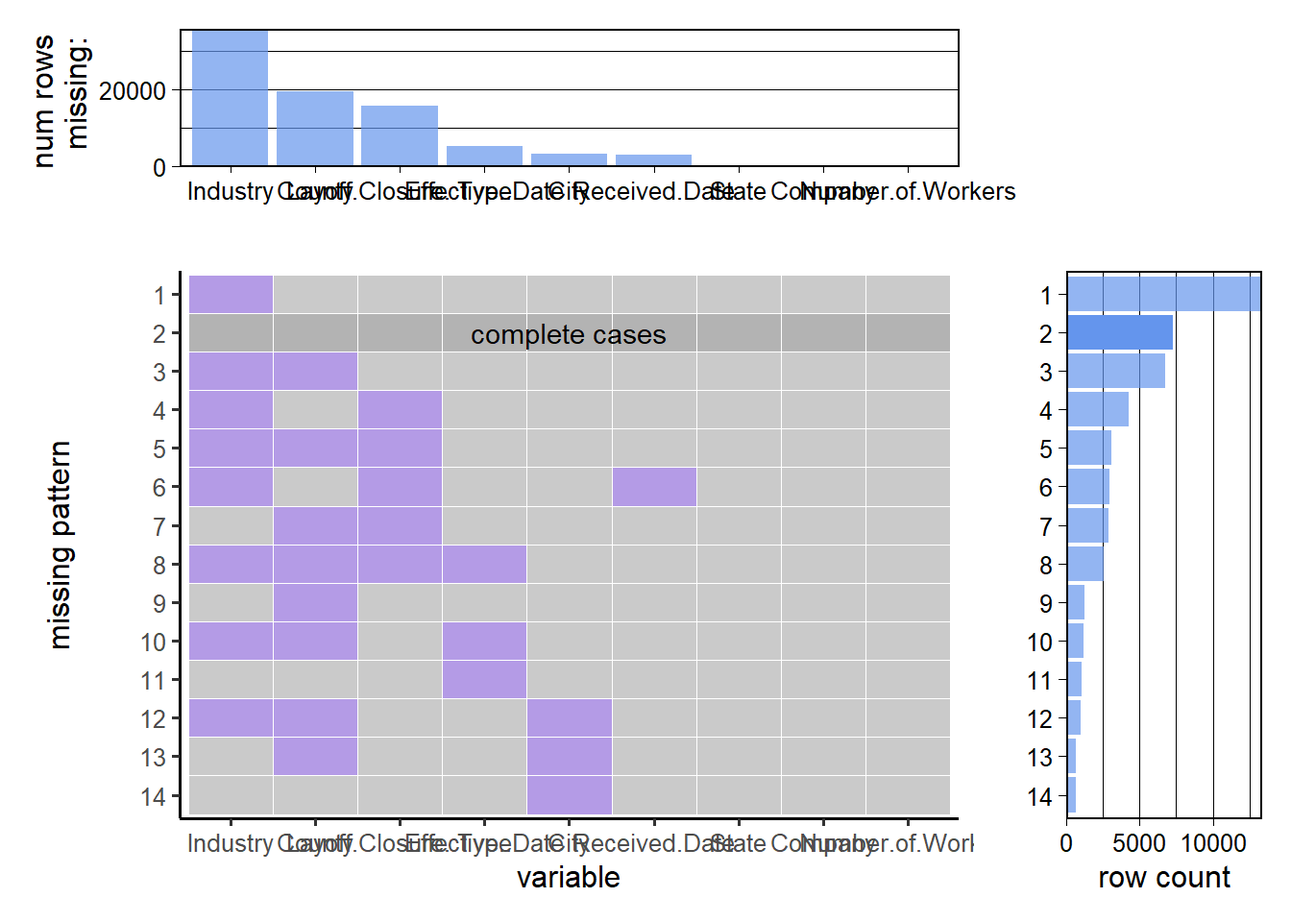
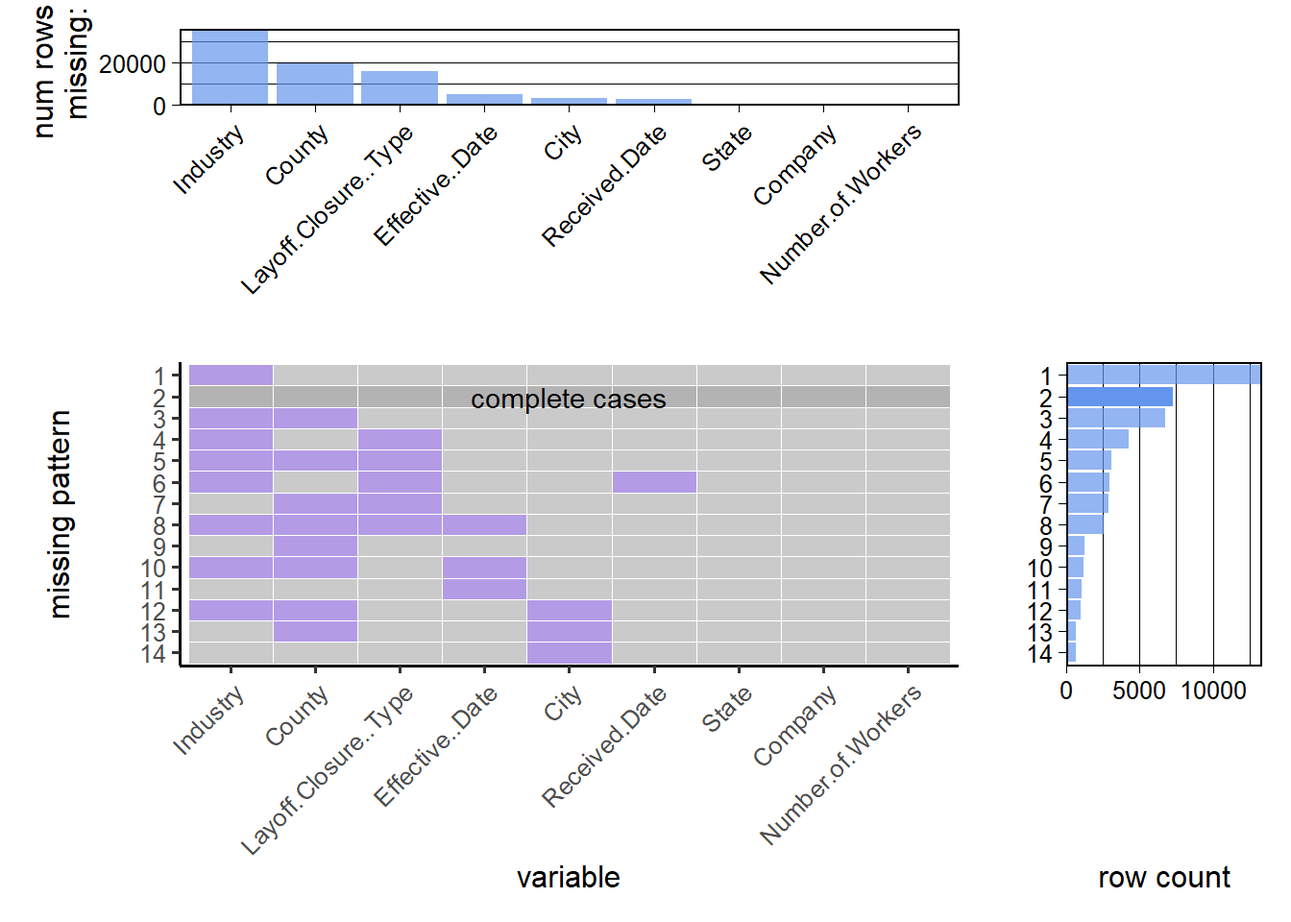
perform missing value analyis

diff --git a/docs/data.html b/docs/data.html
@@ -178,7 +178,12 @@ pre > code.sourceCode > span > a:first-child::before { text-decoration: underlin
   <ul>
   <li><a href="#technical-description" id="toc-technical-description" class="nav-link active" data-scroll-target="#technical-description"><span class="header-section-number">2.1</span> Technical Description</a></li>
   <li><a href="#research-plan" id="toc-research-plan" class="nav-link" data-scroll-target="#research-plan"><span class="header-section-number">2.2</span> Research Plan</a></li>
-  <li><a href="#missing-value-analysis" id="toc-missing-value-analysis" class="nav-link" data-scroll-target="#missing-value-analysis"><span class="header-section-number">2.3</span> Missing value analysis</a></li>
+  <li><a href="#missing-value-analysis" id="toc-missing-value-analysis" class="nav-link" data-scroll-target="#missing-value-analysis"><span class="header-section-number">2.3</span> Missing value analysis</a>
+  <ul class="collapse">
+  <li><a href="#layoff-dataset" id="toc-layoff-dataset" class="nav-link" data-scroll-target="#layoff-dataset"><span class="header-section-number">2.3.1</span> Layoff Dataset</a></li>
+  <li><a href="#unemployment-dataset" id="toc-unemployment-dataset" class="nav-link" data-scroll-target="#unemployment-dataset"><span class="header-section-number">2.3.2</span> Unemployment Dataset</a></li>
+  <li><a href="#stock-market-dataset-sp500" id="toc-stock-market-dataset-sp500" class="nav-link" data-scroll-target="#stock-market-dataset-sp500"><span class="header-section-number">2.3.3</span> Stock Market Dataset (S&amp;P500)</a></li>
+  </ul></li>
   </ul>
 <div class="toc-actions"><div><i class="bi bi-github"></i></div><div class="action-links"><p><a href="https://github.com/jagriti-hirwani/EDAV-finalproject-Fall2023/edit/main/data.qmd" class="toc-action">Edit this page</a></p><p><a href="https://github.com/jagriti-hirwani/EDAV-finalproject-Fall2023/issues/new" class="toc-action">Report an issue</a></p></div></div></nav>
     </div>
@@ -209,8 +214,8 @@ pre > code.sourceCode > span > a:first-child::before { text-decoration: underlin
 <li>Layoff Data: https://layoffdata.com/data/</li>
 </ol>
 <ul>
-<li>Collected by: WARN Database which have citations from various sources mentioned here: https://layoffdata.com/cited/</li>
-<li>Downloaded from a spreadsheet</li>
+<li>Collected by: The federal WARN Act requires large employers to give advance notice of layoffs to state governments and workers. Though states publish this information, no entity collects these layoff notices across the many states. The WARN Database standardizes WARN Notices across the country into a single dataset and the only comprehensive database of worker layoffs.</li>
+<li>Downloaded as an xlsx file from the website</li>
 <li>Format of the data: excel spreadsheet with the following features:
 <ul>
 <li>State</li>
@@ -307,6 +312,8 @@ Attaching package: 'dplyr'</code></pre>
 <span id="cb5-5"><a href="#cb5-5" aria-hidden="true" tabindex="-1"></a><span class="fu">library</span>(readxl)</span></code><button title="Copy to Clipboard" class="code-copy-button"><i class="bi"></i></button></pre></div>
 </details>
 </div>
+<section id="layoff-dataset" class="level3" data-number="2.3.1">
+<h3 data-number="2.3.1" class="anchored" data-anchor-id="layoff-dataset"><span class="header-section-number">2.3.1</span> Layoff Dataset</h3>
 <div class="cell">
 <details>
 <summary>Code</summary>
@@ -359,7 +366,14 @@ Attaching package: 'dplyr'</code></pre>
 <p><img src="data_files/figure-html/unnamed-chunk-3-1.png" class="img-fluid" width="672"></p>
 </div>
 </div>
-<p>We can make the following observations: - We have Company and State information for all records. - ‘Union’ and ‘Temporary/Permanent’ information is missing for almost all records, so we cannot include them in our analysis. - We have around 612 records with no information of the ‘Number of Workers’ laid off, so these records cannot contribute to our analysis. - Columns like ‘Notes’, and ‘Region’ have high fraction of missing values but they don’t play a major role in our analysis. - The high fraction of missing values in ‘Industry’ coulmn, however, could limit our industry wise analysis. Since the critical parts of our analysis will depend on the last 5 years, we can check the missing ratio in that time interval to check if it’s any better.</p>
+<p>We can make the following observations:</p>
+<ul>
+<li>We have Company and State information for all records.</li>
+<li>‘Union’ and ‘Temporary/Permanent’ information is missing for almost all records, so we cannot include them in our analysis.</li>
+<li>We have around 612 records with no information of the ‘Number of Workers’ laid off, so these records cannot contribute to our analysis.</li>
+<li>Columns like ‘Notes’, and ‘Region’ have high fraction of missing values but they don’t play a major role in our analysis.</li>
+<li>The high fraction of missing values in ‘Industry’ coulmn, however, could limit our industry wise analysis. Since the critical parts of our analysis will depend on the last 5 years, we can check the missing ratio in that time interval to check if it’s any better.</li>
+</ul>
 <div class="cell">
 <details>
 <summary>Code</summary>
@@ -387,7 +401,7 @@ Attaching package: 'dplyr'</code></pre>
 <span id="cb9-22"><a href="#cb9-22" aria-hidden="true" tabindex="-1"></a>        <span class="at">hjust =</span> <span class="dv">0</span>, <span class="at">vjust =</span> <span class="dv">0</span>, <span class="at">color =</span> <span class="st">"black"</span></span>
 <span id="cb9-23"><a href="#cb9-23" aria-hidden="true" tabindex="-1"></a>    ) <span class="sc">+</span></span>
 <span id="cb9-24"><a href="#cb9-24" aria-hidden="true" tabindex="-1"></a>    <span class="fu">labs</span>(</span>
-<span id="cb9-25"><a href="#cb9-25" aria-hidden="true" tabindex="-1"></a>        <span class="at">title =</span> <span class="st">"Number of Missing Values in Each Column"</span>,</span>
+<span id="cb9-25"><a href="#cb9-25" aria-hidden="true" tabindex="-1"></a>        <span class="at">title =</span> <span class="st">"Number of Missing Values in Each Column (2018-2023)"</span>,</span>
 <span id="cb9-26"><a href="#cb9-26" aria-hidden="true" tabindex="-1"></a>        <span class="at">x =</span> <span class="st">"Column"</span>,</span>
 <span id="cb9-27"><a href="#cb9-27" aria-hidden="true" tabindex="-1"></a>        <span class="at">y =</span> <span class="st">"Number of Missing Values"</span></span>
 <span id="cb9-28"><a href="#cb9-28" aria-hidden="true" tabindex="-1"></a>    ) <span class="sc">+</span></span>
@@ -424,6 +438,7 @@ Attaching package: 'dplyr'</code></pre>
 </div>
 </div>
 <p>Now, to identify patterns in missing values, we added a new feature to the redav package to address the chalenges of large datasets. We added the parameter ‘threshold’. This controls the percentage of records covered by patterns to be displayed in the graph. For example, if we want to just display patterns which cover 90% of our data, we can pass a value of 0.9.</p>
+<p>Additionally, we also inclined the x-labels.</p>
 <div class="cell">
 <details>
 <summary>Code</summary>
@@ -474,69 +489,71 @@ Attaching package: 'dplyr'</code></pre>
 <span id="cb12-45"><a href="#cb12-45" aria-hidden="true" tabindex="-1"></a>        ggplot2<span class="sc">::</span><span class="fu">scale_alpha_manual</span>(<span class="at">values =</span> <span class="fu">c</span>(.<span class="dv">7</span>, <span class="dv">1</span>)) <span class="sc">+</span></span>
 <span id="cb12-46"><a href="#cb12-46" aria-hidden="true" tabindex="-1"></a>        ggplot2<span class="sc">::</span><span class="fu">ylab</span>(<span class="st">"missing pattern"</span>) <span class="sc">+</span></span>
 <span id="cb12-47"><a href="#cb12-47" aria-hidden="true" tabindex="-1"></a>        ggplot2<span class="sc">::</span><span class="fu">guides</span>(<span class="at">fill =</span> <span class="st">"none"</span>, <span class="at">alpha =</span> <span class="st">"none"</span>) <span class="sc">+</span></span>
-<span id="cb12-48"><a href="#cb12-48" aria-hidden="true" tabindex="-1"></a>        ggplot2<span class="sc">::</span><span class="fu">theme_classic</span>(<span class="dv">12</span>)</span>
-<span id="cb12-49"><a href="#cb12-49" aria-hidden="true" tabindex="-1"></a></span>
-<span id="cb12-50"><a href="#cb12-50" aria-hidden="true" tabindex="-1"></a>    <span class="co"># check for "none missing" pattern</span></span>
-<span id="cb12-51"><a href="#cb12-51" aria-hidden="true" tabindex="-1"></a>    none_missing_pattern <span class="ot">&lt;-</span> na_count_by_pattern <span class="sc">%&gt;%</span></span>
-<span id="cb12-52"><a href="#cb12-52" aria-hidden="true" tabindex="-1"></a>        dplyr<span class="sc">::</span><span class="fu">filter</span>(.data<span class="sc">$</span>none_missing) <span class="sc">%&gt;%</span></span>
-<span id="cb12-53"><a href="#cb12-53" aria-hidden="true" tabindex="-1"></a>        dplyr<span class="sc">::</span><span class="fu">pull</span>(.data<span class="sc">$</span>pattern)</span>
-<span id="cb12-54"><a href="#cb12-54" aria-hidden="true" tabindex="-1"></a></span>
-<span id="cb12-55"><a href="#cb12-55" aria-hidden="true" tabindex="-1"></a>    <span class="cf">if</span> (<span class="fu">length</span>(none_missing_pattern) <span class="sc">&gt;</span> <span class="dv">0</span>) {</span>
-<span id="cb12-56"><a href="#cb12-56" aria-hidden="true" tabindex="-1"></a>        main_plot <span class="ot">&lt;-</span> main_plot <span class="sc">+</span></span>
-<span id="cb12-57"><a href="#cb12-57" aria-hidden="true" tabindex="-1"></a>            ggplot2<span class="sc">::</span><span class="fu">annotate</span>(<span class="st">"text"</span>,</span>
-<span id="cb12-58"><a href="#cb12-58" aria-hidden="true" tabindex="-1"></a>                <span class="at">x =</span> (<span class="fu">ncol</span>(na_count_all) <span class="sc">-</span> <span class="dv">2</span>) <span class="sc">/</span> <span class="dv">2</span>,</span>
-<span id="cb12-59"><a href="#cb12-59" aria-hidden="true" tabindex="-1"></a>                <span class="at">y =</span> <span class="fu">nrow</span>(na_count_all) <span class="sc">+</span> <span class="dv">1</span> <span class="sc">-</span> <span class="fu">as.numeric</span>(<span class="fu">as.character</span>(none_missing_pattern)),</span>
-<span id="cb12-60"><a href="#cb12-60" aria-hidden="true" tabindex="-1"></a>                <span class="at">label =</span> <span class="st">"complete cases"</span></span>
-<span id="cb12-61"><a href="#cb12-61" aria-hidden="true" tabindex="-1"></a>            )</span>
-<span id="cb12-62"><a href="#cb12-62" aria-hidden="true" tabindex="-1"></a>    }</span>
-<span id="cb12-63"><a href="#cb12-63" aria-hidden="true" tabindex="-1"></a></span>
-<span id="cb12-64"><a href="#cb12-64" aria-hidden="true" tabindex="-1"></a>    <span class="co"># margin plots</span></span>
-<span id="cb12-65"><a href="#cb12-65" aria-hidden="true" tabindex="-1"></a></span>
-<span id="cb12-66"><a href="#cb12-66" aria-hidden="true" tabindex="-1"></a>    denom <span class="ot">&lt;-</span> <span class="fu">ifelse</span>(percent, <span class="fu">nrow</span>(x) <span class="sc">/</span> <span class="dv">100</span>, <span class="dv">1</span>)</span>
-<span id="cb12-67"><a href="#cb12-67" aria-hidden="true" tabindex="-1"></a></span>
-<span id="cb12-68"><a href="#cb12-68" aria-hidden="true" tabindex="-1"></a>    missing_by_column_plot <span class="ot">&lt;-</span> ggplot2<span class="sc">::</span><span class="fu">ggplot</span>(na_count_by_column, ggplot2<span class="sc">::</span><span class="fu">aes</span>(forcats<span class="sc">::</span><span class="fu">fct_inorder</span>(.data<span class="sc">$</span>var), .data<span class="sc">$</span>count <span class="sc">/</span> denom)) <span class="sc">+</span></span>
-<span id="cb12-69"><a href="#cb12-69" aria-hidden="true" tabindex="-1"></a>        ggplot2<span class="sc">::</span><span class="fu">geom_col</span>(<span class="at">fill =</span> <span class="st">"cornflowerblue"</span>, <span class="at">alpha =</span> .<span class="dv">7</span>) <span class="sc">+</span></span>
-<span id="cb12-70"><a href="#cb12-70" aria-hidden="true" tabindex="-1"></a>        ggplot2<span class="sc">::</span><span class="fu">scale_y_continuous</span>(<span class="at">expand =</span> <span class="fu">c</span>(<span class="dv">0</span>, <span class="dv">0</span>), <span class="at">n.breaks =</span> <span class="dv">3</span>) <span class="sc">+</span></span>
-<span id="cb12-71"><a href="#cb12-71" aria-hidden="true" tabindex="-1"></a>        ggplot2<span class="sc">::</span><span class="fu">xlab</span>(<span class="st">""</span>) <span class="sc">+</span></span>
-<span id="cb12-72"><a href="#cb12-72" aria-hidden="true" tabindex="-1"></a>        ggplot2<span class="sc">::</span><span class="fu">ylab</span>(<span class="fu">ifelse</span>(percent, <span class="st">"% rows </span><span class="sc">\n</span><span class="st"> missing:"</span>, <span class="st">"num rows </span><span class="sc">\n</span><span class="st"> missing:"</span>)) <span class="sc">+</span></span>
-<span id="cb12-73"><a href="#cb12-73" aria-hidden="true" tabindex="-1"></a>        ggplot2<span class="sc">::</span><span class="fu">theme_linedraw</span>(<span class="dv">12</span>) <span class="sc">+</span></span>
-<span id="cb12-74"><a href="#cb12-74" aria-hidden="true" tabindex="-1"></a>        ggplot2<span class="sc">::</span><span class="fu">theme</span>(</span>
-<span id="cb12-75"><a href="#cb12-75" aria-hidden="true" tabindex="-1"></a>            <span class="at">panel.grid.major.x =</span> ggplot2<span class="sc">::</span><span class="fu">element_blank</span>(),</span>
-<span id="cb12-76"><a href="#cb12-76" aria-hidden="true" tabindex="-1"></a>            <span class="at">panel.grid.minor.x =</span> ggplot2<span class="sc">::</span><span class="fu">element_blank</span>()</span>
-<span id="cb12-77"><a href="#cb12-77" aria-hidden="true" tabindex="-1"></a>        )</span>
-<span id="cb12-78"><a href="#cb12-78" aria-hidden="true" tabindex="-1"></a></span>
-<span id="cb12-79"><a href="#cb12-79" aria-hidden="true" tabindex="-1"></a>    missing_by_pattern_plot <span class="ot">&lt;-</span></span>
-<span id="cb12-80"><a href="#cb12-80" aria-hidden="true" tabindex="-1"></a>        ggplot2<span class="sc">::</span><span class="fu">ggplot</span>(na_count_by_pattern, ggplot2<span class="sc">::</span><span class="fu">aes</span>(.data<span class="sc">$</span>pattern, .data<span class="sc">$</span>count <span class="sc">/</span> denom, <span class="at">alpha =</span> .data<span class="sc">$</span>none_missing)) <span class="sc">+</span></span>
-<span id="cb12-81"><a href="#cb12-81" aria-hidden="true" tabindex="-1"></a>        ggplot2<span class="sc">::</span><span class="fu">geom_col</span>(<span class="at">fill =</span> <span class="st">"cornflowerblue"</span>) <span class="sc">+</span></span>
-<span id="cb12-82"><a href="#cb12-82" aria-hidden="true" tabindex="-1"></a>        ggplot2<span class="sc">::</span><span class="fu">coord_flip</span>() <span class="sc">+</span></span>
-<span id="cb12-83"><a href="#cb12-83" aria-hidden="true" tabindex="-1"></a>        ggplot2<span class="sc">::</span><span class="fu">scale_y_continuous</span>(<span class="at">expand =</span> <span class="fu">c</span>(<span class="dv">0</span>, <span class="dv">0</span>), <span class="at">n.breaks =</span> <span class="dv">3</span>) <span class="sc">+</span></span>
-<span id="cb12-84"><a href="#cb12-84" aria-hidden="true" tabindex="-1"></a>        ggplot2<span class="sc">::</span><span class="fu">scale_alpha_manual</span>(<span class="at">values =</span> <span class="fu">c</span>(.<span class="dv">7</span>, <span class="dv">1</span>)) <span class="sc">+</span></span>
-<span id="cb12-85"><a href="#cb12-85" aria-hidden="true" tabindex="-1"></a>        ggplot2<span class="sc">::</span><span class="fu">xlab</span>(<span class="st">""</span>) <span class="sc">+</span></span>
-<span id="cb12-86"><a href="#cb12-86" aria-hidden="true" tabindex="-1"></a>        ggplot2<span class="sc">::</span><span class="fu">ylab</span>(<span class="fu">ifelse</span>(percent, <span class="st">"% rows"</span>, <span class="st">"row count"</span>)) <span class="sc">+</span></span>
-<span id="cb12-87"><a href="#cb12-87" aria-hidden="true" tabindex="-1"></a>        ggplot2<span class="sc">::</span><span class="fu">guides</span>(<span class="at">alpha =</span> <span class="st">"none"</span>) <span class="sc">+</span></span>
-<span id="cb12-88"><a href="#cb12-88" aria-hidden="true" tabindex="-1"></a>        ggplot2<span class="sc">::</span><span class="fu">theme_linedraw</span>(<span class="dv">12</span>) <span class="sc">+</span></span>
-<span id="cb12-89"><a href="#cb12-89" aria-hidden="true" tabindex="-1"></a>        ggplot2<span class="sc">::</span><span class="fu">theme</span>(</span>
-<span id="cb12-90"><a href="#cb12-90" aria-hidden="true" tabindex="-1"></a>            <span class="at">panel.grid.major.y =</span> ggplot2<span class="sc">::</span><span class="fu">element_blank</span>(),</span>
-<span id="cb12-91"><a href="#cb12-91" aria-hidden="true" tabindex="-1"></a>            <span class="at">panel.grid.minor.y =</span> ggplot2<span class="sc">::</span><span class="fu">element_blank</span>()</span>
-<span id="cb12-92"><a href="#cb12-92" aria-hidden="true" tabindex="-1"></a>        )</span>
-<span id="cb12-93"><a href="#cb12-93" aria-hidden="true" tabindex="-1"></a></span>
-<span id="cb12-94"><a href="#cb12-94" aria-hidden="true" tabindex="-1"></a>    <span class="cf">if</span> (percent) {</span>
-<span id="cb12-95"><a href="#cb12-95" aria-hidden="true" tabindex="-1"></a>        missing_by_column_plot <span class="ot">&lt;-</span> missing_by_column_plot <span class="sc">+</span></span>
-<span id="cb12-96"><a href="#cb12-96" aria-hidden="true" tabindex="-1"></a>            ggplot2<span class="sc">::</span><span class="fu">scale_y_continuous</span>(</span>
-<span id="cb12-97"><a href="#cb12-97" aria-hidden="true" tabindex="-1"></a>                <span class="at">expand =</span> <span class="fu">c</span>(<span class="dv">0</span>, <span class="dv">0</span>), <span class="at">n.breaks =</span> <span class="dv">5</span>,</span>
-<span id="cb12-98"><a href="#cb12-98" aria-hidden="true" tabindex="-1"></a>                <span class="at">limits =</span> <span class="fu">c</span>(<span class="dv">0</span>, <span class="dv">100</span>)</span>
-<span id="cb12-99"><a href="#cb12-99" aria-hidden="true" tabindex="-1"></a>            )</span>
-<span id="cb12-100"><a href="#cb12-100" aria-hidden="true" tabindex="-1"></a>        missing_by_pattern_plot <span class="ot">&lt;-</span> missing_by_pattern_plot <span class="sc">+</span></span>
-<span id="cb12-101"><a href="#cb12-101" aria-hidden="true" tabindex="-1"></a>            ggplot2<span class="sc">::</span><span class="fu">scale_y_continuous</span>(</span>
-<span id="cb12-102"><a href="#cb12-102" aria-hidden="true" tabindex="-1"></a>                <span class="at">expand =</span> <span class="fu">c</span>(<span class="dv">0</span>, <span class="dv">0</span>), <span class="at">n.breaks =</span> <span class="dv">5</span>,</span>
-<span id="cb12-103"><a href="#cb12-103" aria-hidden="true" tabindex="-1"></a>                <span class="at">limits =</span> <span class="fu">c</span>(<span class="dv">0</span>, <span class="dv">100</span>)</span>
-<span id="cb12-104"><a href="#cb12-104" aria-hidden="true" tabindex="-1"></a>            )</span>
-<span id="cb12-105"><a href="#cb12-105" aria-hidden="true" tabindex="-1"></a>    }</span>
-<span id="cb12-106"><a href="#cb12-106" aria-hidden="true" tabindex="-1"></a></span>
-<span id="cb12-107"><a href="#cb12-107" aria-hidden="true" tabindex="-1"></a>    missing_by_column_plot <span class="sc">+</span> patchwork<span class="sc">::</span><span class="fu">plot_spacer</span>() <span class="sc">+</span></span>
-<span id="cb12-108"><a href="#cb12-108" aria-hidden="true" tabindex="-1"></a>        main_plot <span class="sc">+</span> missing_by_pattern_plot <span class="sc">+</span></span>
-<span id="cb12-109"><a href="#cb12-109" aria-hidden="true" tabindex="-1"></a>        patchwork<span class="sc">::</span><span class="fu">plot_layout</span>(<span class="at">widths =</span> <span class="fu">c</span>(<span class="dv">4</span>, <span class="dv">1</span>), <span class="at">heights =</span> <span class="fu">c</span>(<span class="dv">1</span>, <span class="dv">4</span>))</span>
-<span id="cb12-110"><a href="#cb12-110" aria-hidden="true" tabindex="-1"></a>}</span></code><button title="Copy to Clipboard" class="code-copy-button"><i class="bi"></i></button></pre></div>
+<span id="cb12-48"><a href="#cb12-48" aria-hidden="true" tabindex="-1"></a>        ggplot2<span class="sc">::</span><span class="fu">theme_classic</span>(<span class="dv">12</span>) <span class="sc">+</span></span>
+<span id="cb12-49"><a href="#cb12-49" aria-hidden="true" tabindex="-1"></a>        <span class="fu">theme</span>(<span class="at">axis.text.x =</span> <span class="fu">element_text</span>(<span class="at">angle =</span> <span class="dv">45</span>, <span class="at">hjust =</span> <span class="dv">1</span>)) <span class="co">#NEWLY ADDED</span></span>
+<span id="cb12-50"><a href="#cb12-50" aria-hidden="true" tabindex="-1"></a></span>
+<span id="cb12-51"><a href="#cb12-51" aria-hidden="true" tabindex="-1"></a>    <span class="co"># check for "none missing" pattern</span></span>
+<span id="cb12-52"><a href="#cb12-52" aria-hidden="true" tabindex="-1"></a>    none_missing_pattern <span class="ot">&lt;-</span> na_count_by_pattern <span class="sc">%&gt;%</span></span>
+<span id="cb12-53"><a href="#cb12-53" aria-hidden="true" tabindex="-1"></a>        dplyr<span class="sc">::</span><span class="fu">filter</span>(.data<span class="sc">$</span>none_missing) <span class="sc">%&gt;%</span></span>
+<span id="cb12-54"><a href="#cb12-54" aria-hidden="true" tabindex="-1"></a>        dplyr<span class="sc">::</span><span class="fu">pull</span>(.data<span class="sc">$</span>pattern)</span>
+<span id="cb12-55"><a href="#cb12-55" aria-hidden="true" tabindex="-1"></a></span>
+<span id="cb12-56"><a href="#cb12-56" aria-hidden="true" tabindex="-1"></a>    <span class="cf">if</span> (<span class="fu">length</span>(none_missing_pattern) <span class="sc">&gt;</span> <span class="dv">0</span>) {</span>
+<span id="cb12-57"><a href="#cb12-57" aria-hidden="true" tabindex="-1"></a>        main_plot <span class="ot">&lt;-</span> main_plot <span class="sc">+</span></span>
+<span id="cb12-58"><a href="#cb12-58" aria-hidden="true" tabindex="-1"></a>            ggplot2<span class="sc">::</span><span class="fu">annotate</span>(<span class="st">"text"</span>,</span>
+<span id="cb12-59"><a href="#cb12-59" aria-hidden="true" tabindex="-1"></a>                <span class="at">x =</span> (<span class="fu">ncol</span>(na_count_all) <span class="sc">-</span> <span class="dv">2</span>) <span class="sc">/</span> <span class="dv">2</span>,</span>
+<span id="cb12-60"><a href="#cb12-60" aria-hidden="true" tabindex="-1"></a>                <span class="at">y =</span> <span class="fu">nrow</span>(na_count_all) <span class="sc">+</span> <span class="dv">1</span> <span class="sc">-</span> <span class="fu">as.numeric</span>(<span class="fu">as.character</span>(none_missing_pattern)),</span>
+<span id="cb12-61"><a href="#cb12-61" aria-hidden="true" tabindex="-1"></a>                <span class="at">label =</span> <span class="st">"complete cases"</span></span>
+<span id="cb12-62"><a href="#cb12-62" aria-hidden="true" tabindex="-1"></a>            )</span>
+<span id="cb12-63"><a href="#cb12-63" aria-hidden="true" tabindex="-1"></a>    }</span>
+<span id="cb12-64"><a href="#cb12-64" aria-hidden="true" tabindex="-1"></a></span>
+<span id="cb12-65"><a href="#cb12-65" aria-hidden="true" tabindex="-1"></a>    <span class="co"># margin plots</span></span>
+<span id="cb12-66"><a href="#cb12-66" aria-hidden="true" tabindex="-1"></a></span>
+<span id="cb12-67"><a href="#cb12-67" aria-hidden="true" tabindex="-1"></a>    denom <span class="ot">&lt;-</span> <span class="fu">ifelse</span>(percent, <span class="fu">nrow</span>(x) <span class="sc">/</span> <span class="dv">100</span>, <span class="dv">1</span>)</span>
+<span id="cb12-68"><a href="#cb12-68" aria-hidden="true" tabindex="-1"></a></span>
+<span id="cb12-69"><a href="#cb12-69" aria-hidden="true" tabindex="-1"></a>    missing_by_column_plot <span class="ot">&lt;-</span> ggplot2<span class="sc">::</span><span class="fu">ggplot</span>(na_count_by_column, ggplot2<span class="sc">::</span><span class="fu">aes</span>(forcats<span class="sc">::</span><span class="fu">fct_inorder</span>(.data<span class="sc">$</span>var), .data<span class="sc">$</span>count <span class="sc">/</span> denom)) <span class="sc">+</span></span>
+<span id="cb12-70"><a href="#cb12-70" aria-hidden="true" tabindex="-1"></a>        ggplot2<span class="sc">::</span><span class="fu">geom_col</span>(<span class="at">fill =</span> <span class="st">"cornflowerblue"</span>, <span class="at">alpha =</span> .<span class="dv">7</span>) <span class="sc">+</span></span>
+<span id="cb12-71"><a href="#cb12-71" aria-hidden="true" tabindex="-1"></a>        ggplot2<span class="sc">::</span><span class="fu">scale_y_continuous</span>(<span class="at">expand =</span> <span class="fu">c</span>(<span class="dv">0</span>, <span class="dv">0</span>), <span class="at">n.breaks =</span> <span class="dv">3</span>) <span class="sc">+</span></span>
+<span id="cb12-72"><a href="#cb12-72" aria-hidden="true" tabindex="-1"></a>        ggplot2<span class="sc">::</span><span class="fu">xlab</span>(<span class="st">""</span>) <span class="sc">+</span></span>
+<span id="cb12-73"><a href="#cb12-73" aria-hidden="true" tabindex="-1"></a>        ggplot2<span class="sc">::</span><span class="fu">ylab</span>(<span class="fu">ifelse</span>(percent, <span class="st">"% rows </span><span class="sc">\n</span><span class="st"> missing:"</span>, <span class="st">"num rows </span><span class="sc">\n</span><span class="st"> missing:"</span>)) <span class="sc">+</span></span>
+<span id="cb12-74"><a href="#cb12-74" aria-hidden="true" tabindex="-1"></a>        ggplot2<span class="sc">::</span><span class="fu">theme_linedraw</span>(<span class="dv">12</span>) <span class="sc">+</span></span>
+<span id="cb12-75"><a href="#cb12-75" aria-hidden="true" tabindex="-1"></a>        ggplot2<span class="sc">::</span><span class="fu">theme</span>(</span>
+<span id="cb12-76"><a href="#cb12-76" aria-hidden="true" tabindex="-1"></a>            <span class="at">panel.grid.major.x =</span> ggplot2<span class="sc">::</span><span class="fu">element_blank</span>(),</span>
+<span id="cb12-77"><a href="#cb12-77" aria-hidden="true" tabindex="-1"></a>            <span class="at">panel.grid.minor.x =</span> ggplot2<span class="sc">::</span><span class="fu">element_blank</span>()</span>
+<span id="cb12-78"><a href="#cb12-78" aria-hidden="true" tabindex="-1"></a>        ) <span class="sc">+</span></span>
+<span id="cb12-79"><a href="#cb12-79" aria-hidden="true" tabindex="-1"></a>        <span class="fu">theme</span>(<span class="at">axis.text.x =</span> <span class="fu">element_text</span>(<span class="at">angle =</span> <span class="dv">45</span>, <span class="at">hjust =</span> <span class="dv">1</span>)) <span class="co"># NEWLY ADDED</span></span>
+<span id="cb12-80"><a href="#cb12-80" aria-hidden="true" tabindex="-1"></a></span>
+<span id="cb12-81"><a href="#cb12-81" aria-hidden="true" tabindex="-1"></a>    missing_by_pattern_plot <span class="ot">&lt;-</span></span>
+<span id="cb12-82"><a href="#cb12-82" aria-hidden="true" tabindex="-1"></a>        ggplot2<span class="sc">::</span><span class="fu">ggplot</span>(na_count_by_pattern, ggplot2<span class="sc">::</span><span class="fu">aes</span>(.data<span class="sc">$</span>pattern, .data<span class="sc">$</span>count <span class="sc">/</span> denom, <span class="at">alpha =</span> .data<span class="sc">$</span>none_missing)) <span class="sc">+</span></span>
+<span id="cb12-83"><a href="#cb12-83" aria-hidden="true" tabindex="-1"></a>        ggplot2<span class="sc">::</span><span class="fu">geom_col</span>(<span class="at">fill =</span> <span class="st">"cornflowerblue"</span>) <span class="sc">+</span></span>
+<span id="cb12-84"><a href="#cb12-84" aria-hidden="true" tabindex="-1"></a>        ggplot2<span class="sc">::</span><span class="fu">coord_flip</span>() <span class="sc">+</span></span>
+<span id="cb12-85"><a href="#cb12-85" aria-hidden="true" tabindex="-1"></a>        ggplot2<span class="sc">::</span><span class="fu">scale_y_continuous</span>(<span class="at">expand =</span> <span class="fu">c</span>(<span class="dv">0</span>, <span class="dv">0</span>), <span class="at">n.breaks =</span> <span class="dv">3</span>) <span class="sc">+</span></span>
+<span id="cb12-86"><a href="#cb12-86" aria-hidden="true" tabindex="-1"></a>        ggplot2<span class="sc">::</span><span class="fu">scale_alpha_manual</span>(<span class="at">values =</span> <span class="fu">c</span>(.<span class="dv">7</span>, <span class="dv">1</span>)) <span class="sc">+</span></span>
+<span id="cb12-87"><a href="#cb12-87" aria-hidden="true" tabindex="-1"></a>        ggplot2<span class="sc">::</span><span class="fu">xlab</span>(<span class="st">""</span>) <span class="sc">+</span></span>
+<span id="cb12-88"><a href="#cb12-88" aria-hidden="true" tabindex="-1"></a>        ggplot2<span class="sc">::</span><span class="fu">ylab</span>(<span class="fu">ifelse</span>(percent, <span class="st">"% rows"</span>, <span class="st">"row count"</span>)) <span class="sc">+</span></span>
+<span id="cb12-89"><a href="#cb12-89" aria-hidden="true" tabindex="-1"></a>        ggplot2<span class="sc">::</span><span class="fu">guides</span>(<span class="at">alpha =</span> <span class="st">"none"</span>) <span class="sc">+</span></span>
+<span id="cb12-90"><a href="#cb12-90" aria-hidden="true" tabindex="-1"></a>        ggplot2<span class="sc">::</span><span class="fu">theme_linedraw</span>(<span class="dv">12</span>) <span class="sc">+</span></span>
+<span id="cb12-91"><a href="#cb12-91" aria-hidden="true" tabindex="-1"></a>        ggplot2<span class="sc">::</span><span class="fu">theme</span>(</span>
+<span id="cb12-92"><a href="#cb12-92" aria-hidden="true" tabindex="-1"></a>            <span class="at">panel.grid.major.y =</span> ggplot2<span class="sc">::</span><span class="fu">element_blank</span>(),</span>
+<span id="cb12-93"><a href="#cb12-93" aria-hidden="true" tabindex="-1"></a>            <span class="at">panel.grid.minor.y =</span> ggplot2<span class="sc">::</span><span class="fu">element_blank</span>()</span>
+<span id="cb12-94"><a href="#cb12-94" aria-hidden="true" tabindex="-1"></a>        )</span>
+<span id="cb12-95"><a href="#cb12-95" aria-hidden="true" tabindex="-1"></a></span>
+<span id="cb12-96"><a href="#cb12-96" aria-hidden="true" tabindex="-1"></a>    <span class="cf">if</span> (percent) {</span>
+<span id="cb12-97"><a href="#cb12-97" aria-hidden="true" tabindex="-1"></a>        missing_by_column_plot <span class="ot">&lt;-</span> missing_by_column_plot <span class="sc">+</span></span>
+<span id="cb12-98"><a href="#cb12-98" aria-hidden="true" tabindex="-1"></a>            ggplot2<span class="sc">::</span><span class="fu">scale_y_continuous</span>(</span>
+<span id="cb12-99"><a href="#cb12-99" aria-hidden="true" tabindex="-1"></a>                <span class="at">expand =</span> <span class="fu">c</span>(<span class="dv">0</span>, <span class="dv">0</span>), <span class="at">n.breaks =</span> <span class="dv">5</span>,</span>
+<span id="cb12-100"><a href="#cb12-100" aria-hidden="true" tabindex="-1"></a>                <span class="at">limits =</span> <span class="fu">c</span>(<span class="dv">0</span>, <span class="dv">100</span>)</span>
+<span id="cb12-101"><a href="#cb12-101" aria-hidden="true" tabindex="-1"></a>            )</span>
+<span id="cb12-102"><a href="#cb12-102" aria-hidden="true" tabindex="-1"></a>        missing_by_pattern_plot <span class="ot">&lt;-</span> missing_by_pattern_plot <span class="sc">+</span></span>
+<span id="cb12-103"><a href="#cb12-103" aria-hidden="true" tabindex="-1"></a>            ggplot2<span class="sc">::</span><span class="fu">scale_y_continuous</span>(</span>
+<span id="cb12-104"><a href="#cb12-104" aria-hidden="true" tabindex="-1"></a>                <span class="at">expand =</span> <span class="fu">c</span>(<span class="dv">0</span>, <span class="dv">0</span>), <span class="at">n.breaks =</span> <span class="dv">5</span>,</span>
+<span id="cb12-105"><a href="#cb12-105" aria-hidden="true" tabindex="-1"></a>                <span class="at">limits =</span> <span class="fu">c</span>(<span class="dv">0</span>, <span class="dv">100</span>)</span>
+<span id="cb12-106"><a href="#cb12-106" aria-hidden="true" tabindex="-1"></a>            )</span>
+<span id="cb12-107"><a href="#cb12-107" aria-hidden="true" tabindex="-1"></a>    }</span>
+<span id="cb12-108"><a href="#cb12-108" aria-hidden="true" tabindex="-1"></a></span>
+<span id="cb12-109"><a href="#cb12-109" aria-hidden="true" tabindex="-1"></a>    missing_by_column_plot <span class="sc">+</span> patchwork<span class="sc">::</span><span class="fu">plot_spacer</span>() <span class="sc">+</span></span>
+<span id="cb12-110"><a href="#cb12-110" aria-hidden="true" tabindex="-1"></a>        main_plot <span class="sc">+</span> missing_by_pattern_plot <span class="sc">+</span></span>
+<span id="cb12-111"><a href="#cb12-111" aria-hidden="true" tabindex="-1"></a>        patchwork<span class="sc">::</span><span class="fu">plot_layout</span>(<span class="at">widths =</span> <span class="fu">c</span>(<span class="dv">4</span>, <span class="dv">1</span>), <span class="at">heights =</span> <span class="fu">c</span>(<span class="dv">1</span>, <span class="dv">4</span>))</span>
+<span id="cb12-112"><a href="#cb12-112" aria-hidden="true" tabindex="-1"></a>}</span></code><button title="Copy to Clipboard" class="code-copy-button"><i class="bi"></i></button></pre></div>
 </details>
 </div>
 <div class="cell">
@@ -553,8 +570,113 @@ Attaching package: 'dplyr'</code></pre>
 <li>As expected, ‘Industry’ column accounts for most missing values but in most cases it is the only column absent.</li>
 <li>‘Complete Cases’ form the second most observed pattern which is a good sign.</li>
 </ul>
+</section>
+<section id="unemployment-dataset" class="level3" data-number="2.3.2">
+<h3 data-number="2.3.2" class="anchored" data-anchor-id="unemployment-dataset"><span class="header-section-number">2.3.2</span> Unemployment Dataset</h3>
+<div class="cell">
+<details>
+<summary>Code</summary>
+<div class="sourceCode cell-code" id="cb14"><pre class="sourceCode r code-with-copy"><code class="sourceCode r"><span id="cb14-1"><a href="#cb14-1" aria-hidden="true" tabindex="-1"></a>data <span class="ot">&lt;-</span> <span class="fu">read_excel</span>(<span class="st">"./data/UNRATE.xls"</span>, <span class="at">skip=</span><span class="dv">10</span>)</span>
+<span id="cb14-2"><a href="#cb14-2" aria-hidden="true" tabindex="-1"></a></span>
+<span id="cb14-3"><a href="#cb14-3" aria-hidden="true" tabindex="-1"></a><span class="fu">head</span>(data, <span class="dv">5</span>)</span></code><button title="Copy to Clipboard" class="code-copy-button"><i class="bi"></i></button></pre></div>
+</details>
+<div class="cell-output cell-output-stdout">
+<pre><code># A tibble: 5 × 2
+  observation_date    UNRATE
+  &lt;dttm&gt;               &lt;dbl&gt;
+1 1948-01-01 00:00:00    3.4
+2 1948-02-01 00:00:00    3.8
+3 1948-03-01 00:00:00    4  
+4 1948-04-01 00:00:00    3.9
+5 1948-05-01 00:00:00    3.5</code></pre>
+</div>
+</div>
+<p>Let’s check for the distribution of missing values across columns in our data.</p>
+<div class="cell">
+<details>
+<summary>Code</summary>
+<div class="sourceCode cell-code" id="cb16"><pre class="sourceCode r code-with-copy"><code class="sourceCode r"><span id="cb16-1"><a href="#cb16-1" aria-hidden="true" tabindex="-1"></a><span class="co"># Calculate the number of missing values in each column</span></span>
+<span id="cb16-2"><a href="#cb16-2" aria-hidden="true" tabindex="-1"></a>missing_values <span class="ot">&lt;-</span> <span class="fu">sapply</span>(data, <span class="cf">function</span>(x) <span class="fu">sum</span>(<span class="fu">is.na</span>(x)))</span>
+<span id="cb16-3"><a href="#cb16-3" aria-hidden="true" tabindex="-1"></a></span>
+<span id="cb16-4"><a href="#cb16-4" aria-hidden="true" tabindex="-1"></a><span class="co"># Calculate the total number of records in the dataset</span></span>
+<span id="cb16-5"><a href="#cb16-5" aria-hidden="true" tabindex="-1"></a>total_records <span class="ot">&lt;-</span> <span class="fu">nrow</span>(data)</span>
+<span id="cb16-6"><a href="#cb16-6" aria-hidden="true" tabindex="-1"></a></span>
+<span id="cb16-7"><a href="#cb16-7" aria-hidden="true" tabindex="-1"></a><span class="co"># Create a data frame for plotting</span></span>
+<span id="cb16-8"><a href="#cb16-8" aria-hidden="true" tabindex="-1"></a>missing_data_df <span class="ot">&lt;-</span> <span class="fu">data.frame</span>(<span class="at">Column =</span> <span class="fu">names</span>(missing_values), <span class="at">Missing_Values =</span> missing_values)</span>
+<span id="cb16-9"><a href="#cb16-9" aria-hidden="true" tabindex="-1"></a></span>
+<span id="cb16-10"><a href="#cb16-10" aria-hidden="true" tabindex="-1"></a><span class="co"># Create a bar chart using ggplot2 with text labels on top and total records</span></span>
+<span id="cb16-11"><a href="#cb16-11" aria-hidden="true" tabindex="-1"></a><span class="fu">ggplot</span>(missing_data_df, <span class="fu">aes</span>(<span class="at">x =</span> Column, <span class="at">y =</span> Missing_Values)) <span class="sc">+</span></span>
+<span id="cb16-12"><a href="#cb16-12" aria-hidden="true" tabindex="-1"></a>    <span class="fu">geom_bar</span>(<span class="at">stat =</span> <span class="st">"identity"</span>, <span class="at">fill =</span> <span class="st">"skyblue"</span>, <span class="at">color =</span> <span class="st">"black"</span>) <span class="sc">+</span></span>
+<span id="cb16-13"><a href="#cb16-13" aria-hidden="true" tabindex="-1"></a>    <span class="fu">geom_text</span>(<span class="fu">aes</span>(<span class="at">label =</span> Missing_Values), <span class="at">vjust =</span> <span class="sc">-</span><span class="fl">0.5</span>, <span class="at">color =</span> <span class="st">"black"</span>) <span class="sc">+</span></span>
+<span id="cb16-14"><a href="#cb16-14" aria-hidden="true" tabindex="-1"></a>    <span class="fu">geom_text</span>(<span class="fu">aes</span>(<span class="at">x =</span> <span class="dv">0</span>, <span class="at">y =</span> total_records <span class="sc">+</span> <span class="dv">5</span>, <span class="at">label =</span> <span class="fu">paste</span>(<span class="st">"Total Records:"</span>, total_records)),</span>
+<span id="cb16-15"><a href="#cb16-15" aria-hidden="true" tabindex="-1"></a>        <span class="at">hjust =</span> <span class="dv">0</span>, <span class="at">vjust =</span> <span class="dv">0</span>, <span class="at">color =</span> <span class="st">"black"</span></span>
+<span id="cb16-16"><a href="#cb16-16" aria-hidden="true" tabindex="-1"></a>    ) <span class="sc">+</span></span>
+<span id="cb16-17"><a href="#cb16-17" aria-hidden="true" tabindex="-1"></a>    <span class="fu">labs</span>(</span>
+<span id="cb16-18"><a href="#cb16-18" aria-hidden="true" tabindex="-1"></a>        <span class="at">title =</span> <span class="st">"Number of Missing Values in Each Column"</span>,</span>
+<span id="cb16-19"><a href="#cb16-19" aria-hidden="true" tabindex="-1"></a>        <span class="at">x =</span> <span class="st">"Column"</span>,</span>
+<span id="cb16-20"><a href="#cb16-20" aria-hidden="true" tabindex="-1"></a>        <span class="at">y =</span> <span class="st">"Number of Missing Values"</span></span>
+<span id="cb16-21"><a href="#cb16-21" aria-hidden="true" tabindex="-1"></a>    ) <span class="sc">+</span></span>
+<span id="cb16-22"><a href="#cb16-22" aria-hidden="true" tabindex="-1"></a>    <span class="fu">theme</span>(<span class="at">axis.text.x =</span> <span class="fu">element_text</span>(<span class="at">angle =</span> <span class="dv">45</span>, <span class="at">hjust =</span> <span class="dv">1</span>))</span></code><button title="Copy to Clipboard" class="code-copy-button"><i class="bi"></i></button></pre></div>
+</details>
+<div class="cell-output-display">
+<p><img src="data_files/figure-html/unnamed-chunk-9-1.png" class="img-fluid" width="672"></p>
+</div>
+</div>
+<p>We can see that we have no missing values.</p>
+</section>
+<section id="stock-market-dataset-sp500" class="level3" data-number="2.3.3">
+<h3 data-number="2.3.3" class="anchored" data-anchor-id="stock-market-dataset-sp500"><span class="header-section-number">2.3.3</span> Stock Market Dataset (S&amp;P500)</h3>
+<div class="cell">
+<details>
+<summary>Code</summary>
+<div class="sourceCode cell-code" id="cb17"><pre class="sourceCode r code-with-copy"><code class="sourceCode r"><span id="cb17-1"><a href="#cb17-1" aria-hidden="true" tabindex="-1"></a>data <span class="ot">&lt;-</span> <span class="fu">read.csv</span>(<span class="st">"./data/HistoricalPrices.csv"</span>)</span>
+<span id="cb17-2"><a href="#cb17-2" aria-hidden="true" tabindex="-1"></a></span>
+<span id="cb17-3"><a href="#cb17-3" aria-hidden="true" tabindex="-1"></a><span class="fu">head</span>(data, <span class="dv">5</span>)</span></code><button title="Copy to Clipboard" class="code-copy-button"><i class="bi"></i></button></pre></div>
+</details>
+<div class="cell-output cell-output-stdout">
+<pre><code>      Date    Open    High     Low   Close
+1 11/29/23 4571.84 4587.64 4547.15 4550.58
+2 11/28/23 4545.55 4568.14 4540.51 4554.89
+3 11/27/23 4554.86 4560.52 4546.32 4550.43
+4 11/24/23 4555.84 4560.31 4552.80 4559.34
+5 11/22/23 4553.04 4568.43 4545.05 4556.62</code></pre>
+</div>
+</div>
+<p>Let’s check for the distribution of missing values across columns in our data.</p>
+<div class="cell">
+<details>
+<summary>Code</summary>
+<div class="sourceCode cell-code" id="cb19"><pre class="sourceCode r code-with-copy"><code class="sourceCode r"><span id="cb19-1"><a href="#cb19-1" aria-hidden="true" tabindex="-1"></a><span class="co"># Calculate the number of missing values in each column</span></span>
+<span id="cb19-2"><a href="#cb19-2" aria-hidden="true" tabindex="-1"></a>missing_values <span class="ot">&lt;-</span> <span class="fu">sapply</span>(data, <span class="cf">function</span>(x) <span class="fu">sum</span>(<span class="fu">is.na</span>(x)))</span>
+<span id="cb19-3"><a href="#cb19-3" aria-hidden="true" tabindex="-1"></a></span>
+<span id="cb19-4"><a href="#cb19-4" aria-hidden="true" tabindex="-1"></a><span class="co"># Calculate the total number of records in the dataset</span></span>
+<span id="cb19-5"><a href="#cb19-5" aria-hidden="true" tabindex="-1"></a>total_records <span class="ot">&lt;-</span> <span class="fu">nrow</span>(data)</span>
+<span id="cb19-6"><a href="#cb19-6" aria-hidden="true" tabindex="-1"></a></span>
+<span id="cb19-7"><a href="#cb19-7" aria-hidden="true" tabindex="-1"></a><span class="co"># Create a data frame for plotting</span></span>
+<span id="cb19-8"><a href="#cb19-8" aria-hidden="true" tabindex="-1"></a>missing_data_df <span class="ot">&lt;-</span> <span class="fu">data.frame</span>(<span class="at">Column =</span> <span class="fu">names</span>(missing_values), <span class="at">Missing_Values =</span> missing_values)</span>
+<span id="cb19-9"><a href="#cb19-9" aria-hidden="true" tabindex="-1"></a></span>
+<span id="cb19-10"><a href="#cb19-10" aria-hidden="true" tabindex="-1"></a><span class="co"># Create a bar chart using ggplot2 with text labels on top and total records</span></span>
+<span id="cb19-11"><a href="#cb19-11" aria-hidden="true" tabindex="-1"></a><span class="fu">ggplot</span>(missing_data_df, <span class="fu">aes</span>(<span class="at">x =</span> Column, <span class="at">y =</span> Missing_Values)) <span class="sc">+</span></span>
+<span id="cb19-12"><a href="#cb19-12" aria-hidden="true" tabindex="-1"></a>    <span class="fu">geom_bar</span>(<span class="at">stat =</span> <span class="st">"identity"</span>, <span class="at">fill =</span> <span class="st">"skyblue"</span>, <span class="at">color =</span> <span class="st">"black"</span>) <span class="sc">+</span></span>
+<span id="cb19-13"><a href="#cb19-13" aria-hidden="true" tabindex="-1"></a>    <span class="fu">geom_text</span>(<span class="fu">aes</span>(<span class="at">label =</span> Missing_Values), <span class="at">vjust =</span> <span class="sc">-</span><span class="fl">0.5</span>, <span class="at">color =</span> <span class="st">"black"</span>) <span class="sc">+</span></span>
+<span id="cb19-14"><a href="#cb19-14" aria-hidden="true" tabindex="-1"></a>    <span class="fu">geom_text</span>(<span class="fu">aes</span>(<span class="at">x =</span> <span class="dv">0</span>, <span class="at">y =</span> total_records <span class="sc">+</span> <span class="dv">5</span>, <span class="at">label =</span> <span class="fu">paste</span>(<span class="st">"Total Records:"</span>, total_records)),</span>
+<span id="cb19-15"><a href="#cb19-15" aria-hidden="true" tabindex="-1"></a>        <span class="at">hjust =</span> <span class="dv">0</span>, <span class="at">vjust =</span> <span class="dv">0</span>, <span class="at">color =</span> <span class="st">"black"</span></span>
+<span id="cb19-16"><a href="#cb19-16" aria-hidden="true" tabindex="-1"></a>    ) <span class="sc">+</span></span>
+<span id="cb19-17"><a href="#cb19-17" aria-hidden="true" tabindex="-1"></a>    <span class="fu">labs</span>(</span>
+<span id="cb19-18"><a href="#cb19-18" aria-hidden="true" tabindex="-1"></a>        <span class="at">title =</span> <span class="st">"Number of Missing Values in Each Column"</span>,</span>
+<span id="cb19-19"><a href="#cb19-19" aria-hidden="true" tabindex="-1"></a>        <span class="at">x =</span> <span class="st">"Column"</span>,</span>
+<span id="cb19-20"><a href="#cb19-20" aria-hidden="true" tabindex="-1"></a>        <span class="at">y =</span> <span class="st">"Number of Missing Values"</span></span>
+<span id="cb19-21"><a href="#cb19-21" aria-hidden="true" tabindex="-1"></a>    ) <span class="sc">+</span></span>
+<span id="cb19-22"><a href="#cb19-22" aria-hidden="true" tabindex="-1"></a>    <span class="fu">theme</span>(<span class="at">axis.text.x =</span> <span class="fu">element_text</span>(<span class="at">angle =</span> <span class="dv">45</span>, <span class="at">hjust =</span> <span class="dv">1</span>))</span></code><button title="Copy to Clipboard" class="code-copy-button"><i class="bi"></i></button></pre></div>
+</details>
+<div class="cell-output-display">
+<p><img src="data_files/figure-html/unnamed-chunk-11-1.png" class="img-fluid" width="672"></p>
+</div>
+</div>
+<p>We can see that we have no missing values.</p>
 
 
+</section>
 </section>
 
 </main> <!-- /main -->
